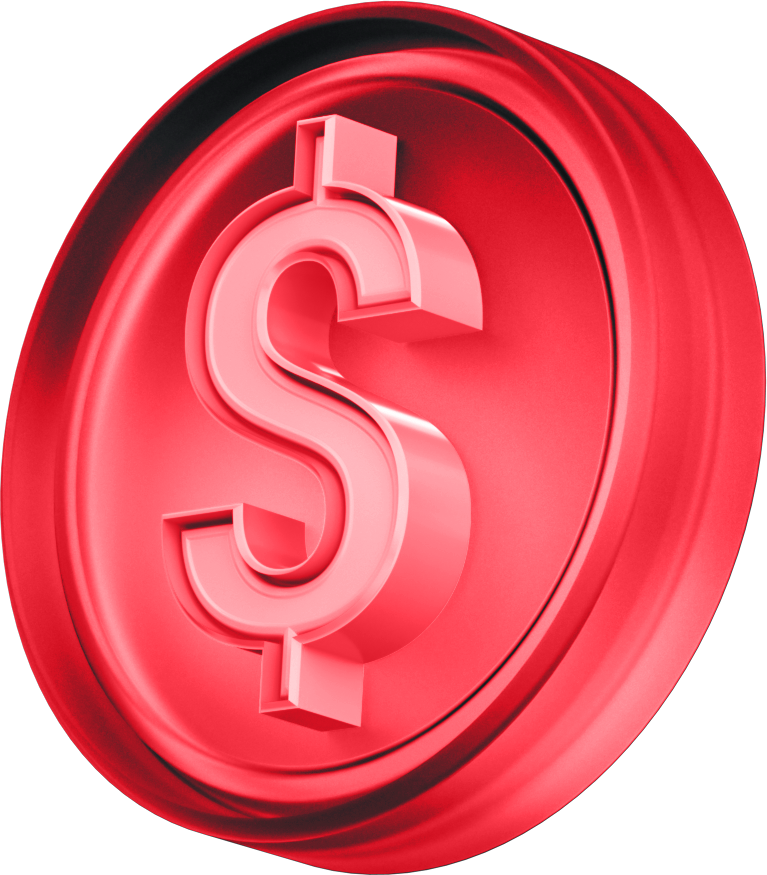
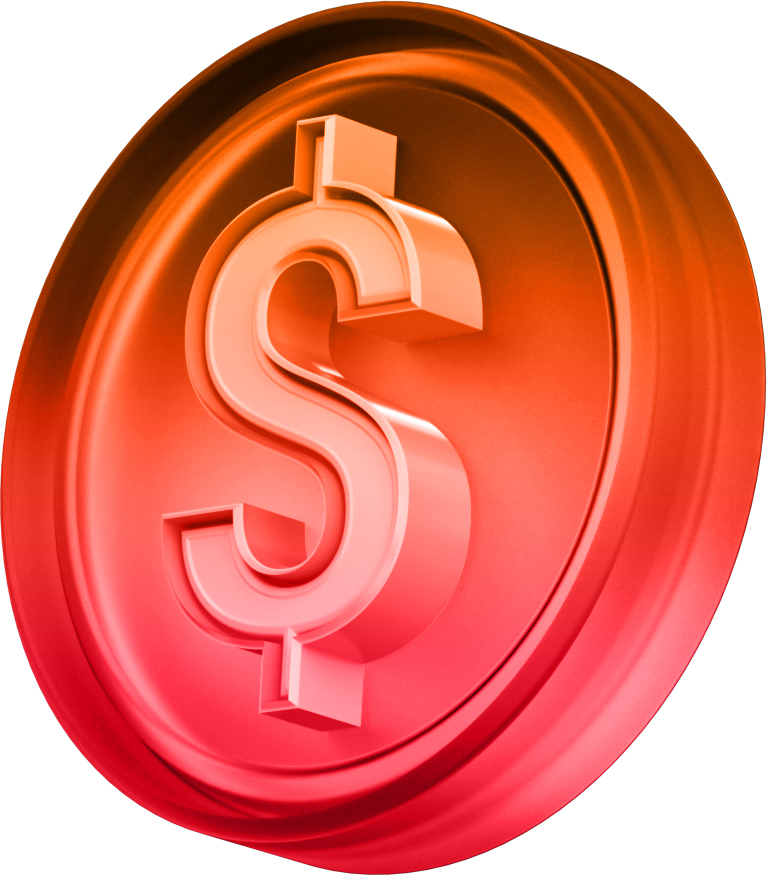
Alterações Projeto

diff --git a/src/App.jsx b/src/App.jsx
@@ -6,7 +6,7 @@ import AdminApp from './resusys-painel-admin';
 
 // Importando as suas imagens da pasta assets
 import imgBackground from './assets/bg.png';
-import imgIconePrincipal from './assets/@icone-principal.jpg';
+import imgIconePrincipal from './assets/icone-task.png';
 
 // ═══════════════════════════════════════════
 // SUPABASE CLIENT
@@ -135,6 +135,7 @@ const IC = {
   wallet: (c = "white") => <svg width="18" height="18" viewBox="0 0 24 24" fill={c}><path d="M21,6H5c-.859,0-1.672-.372-2.235-.999,.55-.614,1.349-1.001,2.235-1.001H23c1.308-.006,1.307-1.995,0-2H5C2.239,2,0,4.239,0,7v10c0,2.761,2.239,5,5,5H21c1.657,0,3-1.343,3-3V9c0-1.657-1.343-3-3-3Zm-1,9c-1.308-.006-1.308-1.994,0-2,1.308,.006,1.308,1.994,0,2Z"/></svg>,
   upload: (c = "white") => <svg width="24" height="24" viewBox="0 0 24 24" fill={c}><path d="M18.385,7.373a1.128,1.128,0,0,1-.751-.748h0a8,8,0,1,0-15.1,5.237A1.046,1.046,0,0,1,2.223,13.1,5.5,5.5,0,0,0,.057,18.3,5.622,5.622,0,0,0,5.683,23H14V15.414l-1.293,1.293a1,1,0,0,1-1.414-1.414l1.586-1.586a3,3,0,0,1,4.242,0l1.586,1.586a1,1,0,1,1-1.414,1.414L16,15.414v7.573a8.181,8.181,0,0,0,7.971-7.309A7.964,7.964,0,0,0,18.385,7.373Z"/></svg>,
   logout: (c = "white") => <svg width="16" height="16" viewBox="0 0 24 24" fill={c}><path d="M22.829,9.172,18.95,5.293a1,1,0,0,0-1.414,1.414L21.414,10.5H9a1,1,0,0,0,0,2H21.414l-3.878,3.793a1,1,0,1,0,1.414,1.414l3.879-3.879A3,3,0,0,0,22.829,9.172Z"/><path d="M15,21H5a1,1,0,0,1-1-1V4A1,1,0,0,1,5,3h9a1,1,0,0,0,0-2H5A3,3,0,0,0,2,4V20a3,3,0,0,0,3,3h10a1,1,0,0,0,0-2Z"/></svg>,
+  back: (c = "white") => <svg width="18" height="18" viewBox="0 0 24 24" fill={c}><path d="M17.121,2.878a1,1,0,0,0-1.414,0L6.293,12.293a1,1,0,0,0,0,1.414l9.414,9.415a1,1,0,0,0,1.414-1.415L8.414,13l8.707-8.707A1,1,0,0,0,17.121,2.878Z"/></svg>,
 };
 
 const MIcon = () => (
@@ -201,7 +202,7 @@ const LoginScreen = ({ go }) => {
         <Glass s={{ padding: "36px 30px" }}>
           <div style={{ display: "flex", justifyContent: "space-between", alignItems: "center", marginBottom: 22 }}>
             <span style={{ fontSize: 30, color: D.white, fontFamily: "'Maver', sans-serif", letterSpacing: -1 }}>TASKY</span>
-            <div onClick={() => go("landing")} style={{ padding: "8px 18px", borderRadius: D.radius, background: "transparent", color: "rgba(255,255,255,0.6)", border: "1.5px solid rgba(255,255,255,0.15)", fontFamily: D.sora, fontSize: 12, fontWeight: 700, letterSpacing: 0.3, textTransform: "uppercase", cursor: "pointer", display: "flex", alignItems: "center", gap: 8, minHeight: 40 }}>{IC.logout("rgba(255,255,255,0.5)")} VOLTAR</div>
+            <div onClick={() => go("landing")} style={{ width: 40, height: 40, borderRadius: "50%", background: "transparent", border: "1.5px solid rgba(255,255,255,0.15)", cursor: "pointer", display: "flex", alignItems: "center", justifyContent: "center", flexShrink: 0 }}>{IC.back("rgba(255,255,255,0.7)")}</div>
           </div>
           <h1 style={{ fontFamily: D.maver, fontSize: 60, fontWeight: 400, lineHeight: 0.88, textTransform: "uppercase", letterSpacing: -2, wordBreak: "break-word", marginBottom: 28 }}>BEM-<br/>VINDO</h1>
           <Inp placeholder="E-MAIL:" type="email" value={email} onChange={e => setEmail(e.target.value)} />
@@ -478,7 +479,7 @@ const Withdrawal = ({ go, profile }) => {
         <div style={{ width: 44, height: 44, borderRadius: "50%", background: D.btnGrad, display: "flex", alignItems: "center", justifyContent: "center", marginBottom: 24, animation: "popIn 0.6s ease-out", boxShadow: `0 3px 10px ${D.redGlow}` }}>{IC.check("white", 20)}</div>
         <h2 style={{ fontFamily: D.maver, fontSize: 60, fontWeight: 400, textTransform: "uppercase", textAlign: "center", marginBottom: 14, letterSpacing: -2, lineHeight: 0.88 }}>VALOR<br/>SOLICITADO!</h2>
         <p style={{ fontFamily: D.sora, fontSize: 12, color: D.muted, textAlign: "center", marginBottom: 28, textTransform: "uppercase", fontWeight: 600 }}>Processamento em até 24h.</p>
-        <Btn onClick={() => go("dashboard")}>VOLTAR</Btn>
+        <div onClick={() => go("dashboard")} style={{ width: 40, height: 40, borderRadius: "50%", background: "transparent", border: "1.5px solid rgba(255,255,255,0.15)", cursor: "pointer", display: "flex", alignItems: "center", justifyContent: "center", margin: "0 auto" }}>{IC.back("rgba(255,255,255,0.7)")}</div>
       </Glass>
     </div>
   );
@@ -489,7 +490,7 @@ const Withdrawal = ({ go, profile }) => {
       <Glass s={{ padding: "34px 28px" }}>
         <div style={{ display: "flex", justifyContent: "space-between", alignItems: "center", marginBottom: 22 }}>
           <span style={{ fontSize: 30, color: D.white, fontFamily: "'Maver', sans-serif", letterSpacing: -1 }}>TASKY</span>
-          <div onClick={() => go("dashboard")} style={{ padding: "8px 18px", borderRadius: D.radius, background: "transparent", color: "rgba(255,255,255,0.6)", border: "1.5px solid rgba(255,255,255,0.15)", fontFamily: D.sora, fontSize: 12, fontWeight: 700, letterSpacing: 0.3, textTransform: "uppercase", cursor: "pointer", display: "flex", alignItems: "center", gap: 8, minHeight: 40 }}>{IC.logout("rgba(255,255,255,0.5)")} VOLTAR</div>
+          <div onClick={() => go("dashboard")} style={{ width: 40, height: 40, borderRadius: "50%", background: "transparent", border: "1.5px solid rgba(255,255,255,0.15)", cursor: "pointer", display: "flex", alignItems: "center", justifyContent: "center", flexShrink: 0 }}>{IC.back("rgba(255,255,255,0.7)")}</div>
         </div>
         <h1 style={{ fontFamily: D.maver, fontSize: 60, fontWeight: 400, lineHeight: 0.88, textTransform: "uppercase", letterSpacing: -2, wordBreak: "break-word", marginBottom: 10 }}>SOLICITE<br/>E AGUARDE</h1>
         <p style={{ fontFamily: D.sora, fontSize: 12, fontWeight: 700, letterSpacing: 0.5, textTransform: "uppercase", color: D.muted, marginBottom: 22 }}>PREENCHA OS DADOS CORRETAMENTE</p>

diff --git a/index.html b/index.html
@@ -1,10 +1,10 @@
 <!doctype html>
-<html lang="en">
+<html lang="pt-BR">
   <head>
     <meta charset="UTF-8" />
-    <link rel="icon" type="image/svg+xml" href="/favicon.svg" />
+    <link rel="icon" type="image/png" href="/icone-task.png" />
     <meta name="viewport" content="width=device-width, initial-scale=1.0" />
-    <title>Resu System</title>
+    <title>TASKY</title>
   </head>
   <body>
     <div id="root"></div>
